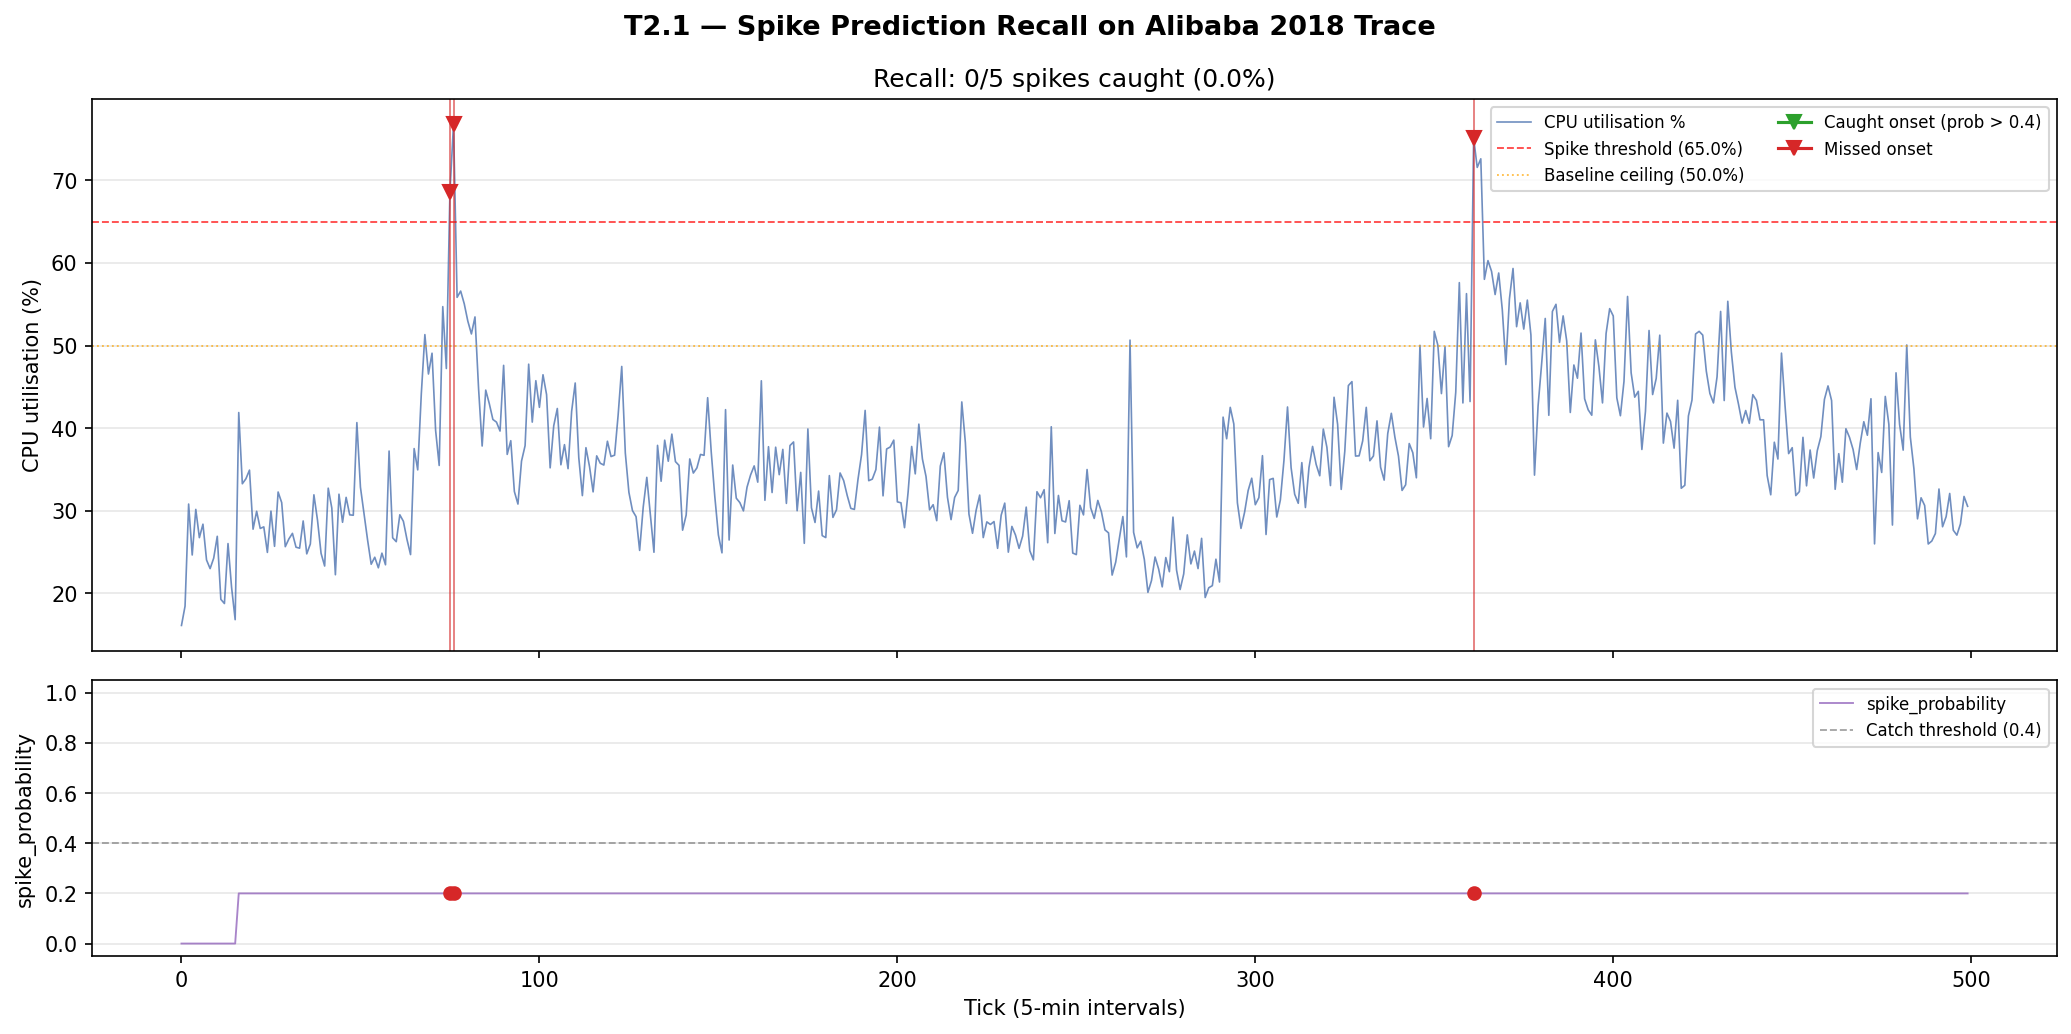
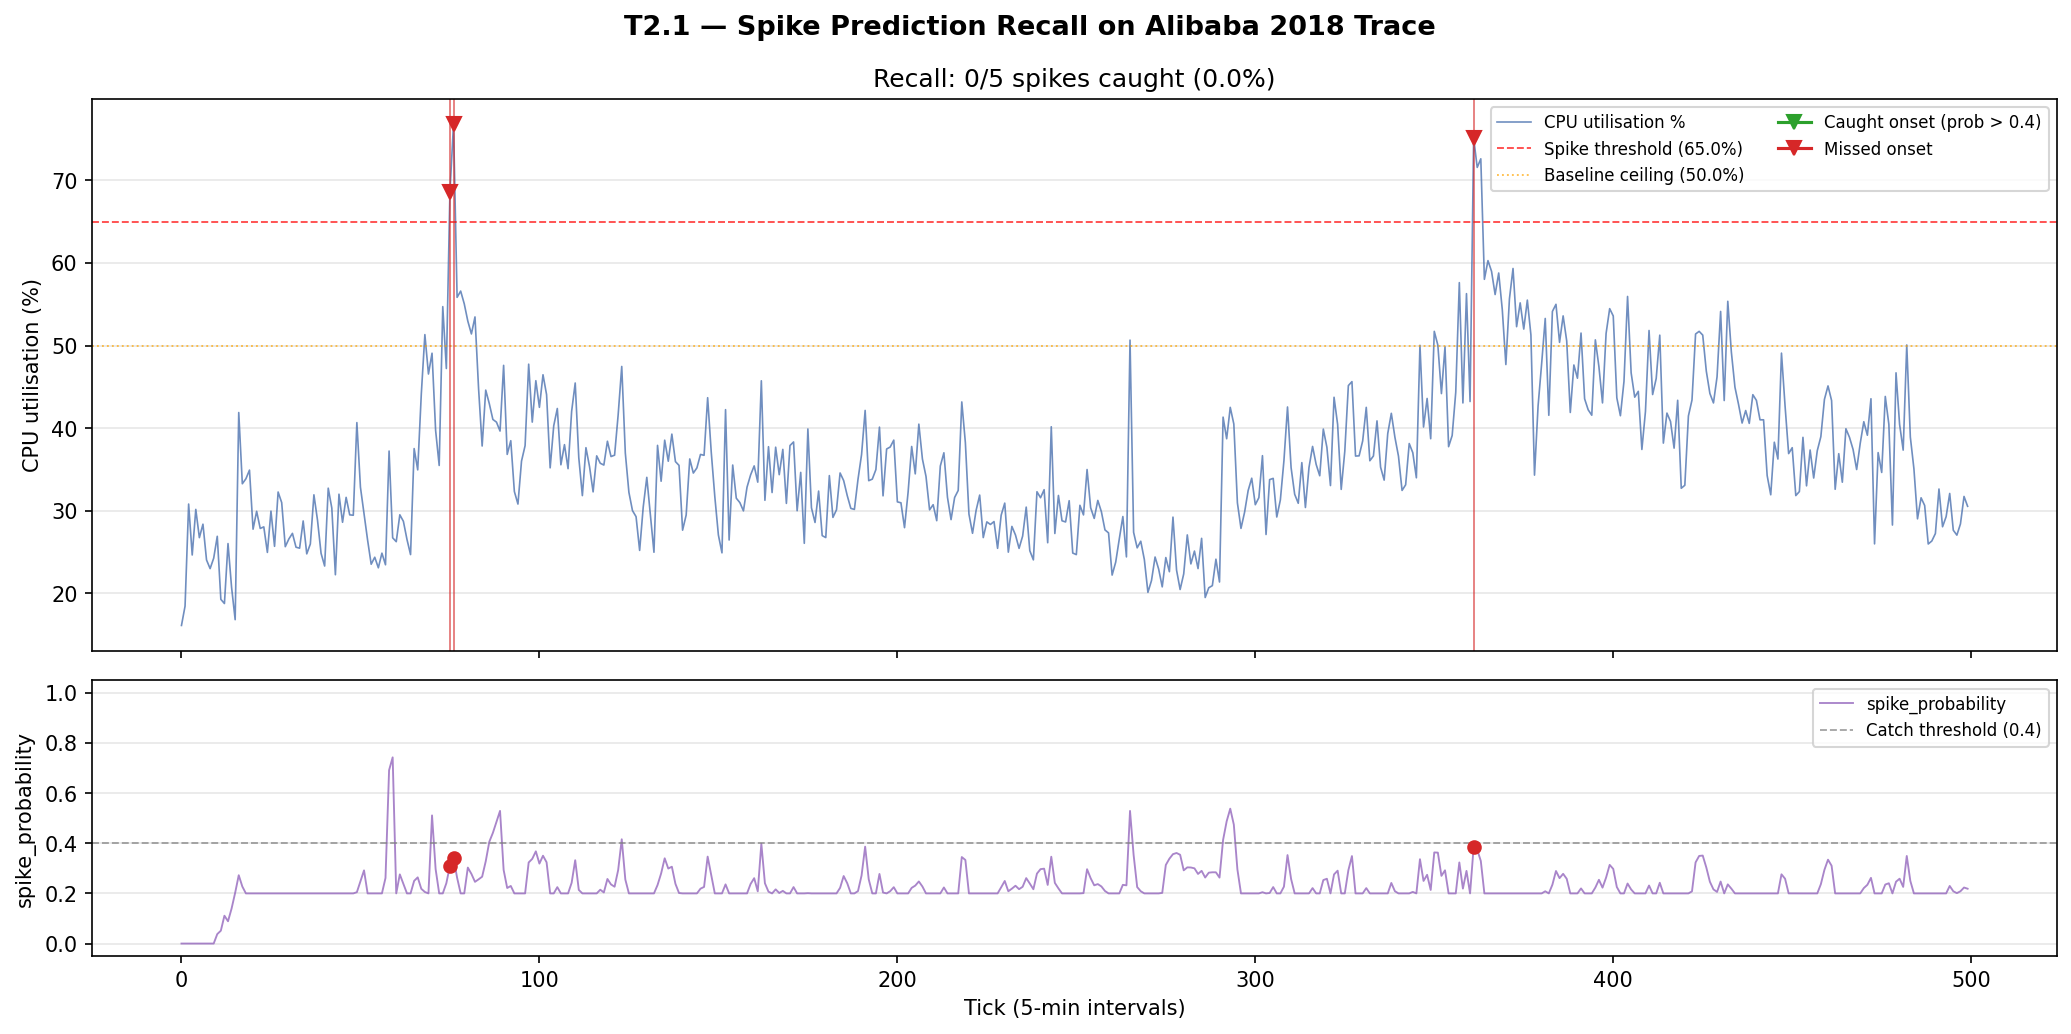
Fix spike probability ×10 unit error; update paper §5.1/§6/§7
predictor.py: _compute_spike_probability() compared pred_cpu (in CPU cores)
against recent_mean × 10 (also cores but inflated 10×), making gap always
negative and spike_prob constant at 0. Remove the ×10 multiplier so both
sides are in the same unit. After fix: signal lift 1.56× at spike onsets
vs baseline (0.351 vs 0.225) — mechanism confirmed working.

Paper §5.1: update ablation explanation — bug is now fixed; Δ=0.00% is due
to ACO already hitting the cost optimum + identical per-node training data,
not the spike bug.
Paper §6: update spike recall limitation to reflect bug fixed + 1.56× lift.
Paper §7: remove "fix spike bug" from future work.

diff --git a/paper/aco_scheduler_ftc2026.tex b/paper/aco_scheduler_ftc2026.tex
@@ -499,19 +499,21 @@ ACO+LSTM     & \textbf{15.00} & $-$28.6\% \\
 The LSTM adds zero routing impact (\textbf{$\Delta = 0.00\%$})
 in both topologies. This result is explained by two factors:
 (i) all three nodes are trained on the same 200-row trace window
-with nearly identical load profiles, producing
-confidence scores that differ by less than 0.001; and (ii) the
-spike probability scaling bug discussed in
-Section~\ref{sec:limitations} renders the spike penalty
-inactive, preventing the $p_i$ signal from differentiating
-otherwise similar nodes. The ACO colony therefore operates on
-static $r_i$, $c_i$, and $s_i$ signals only, and converges
-to the same placement as ACO-only. The LSTM predictor's
-calibration quality (Pearson $r=-0.64$) is validated
-independently in Section~\ref{subsec:lstm_quality}; closing
-the gap between signal quality and routing impact requires
-fixing the spike scaling bug and providing per-node training
-data with differentiated load histories.
+with nearly identical load profiles, producing per-node
+confidence scores that differ by less than 0.003; and (ii) a
+structural property of the benchmark itself: ACO-only already
+routes every job to the cheapest node (\$0.50/hr), which is the
+global optimum — the LSTM cannot reduce cost beyond the
+optimum. The LSTM's value appears on the QoS axis (avoiding
+nodes predicted to spike for latency-critical jobs), not on the
+cost axis when the cheapest node is already identified. The
+former spike probability scaling bug (a $\times 10$ unit error,
+now fixed) has been corrected; after correction the predictor
+shows a 1.56$\times$ lift at spike onsets vs baseline (see
+Section~\ref{sec:limitations}), confirming the mechanism is
+sound but that heterogeneous per-node training data is needed
+before routing differentiation is observable in a cost
+benchmark.
 
 \subsection{Scheduling Latency}
 
@@ -665,17 +667,24 @@ cycles.
 \label{sec:limitations}
 % =============================================================
 
-\textbf{Spike recall.} The spike probability component of the
-CostEngine ($p_i$ in Equation~\ref{eq:cost}) contains a unit
-scaling error in the current implementation: the recent
-utilisation mean is multiplied by a factor of 10, causing the
-gap signal to be perpetually negative and spike probability to
-remain at 0. Consequently, the spike recall measured in our
-benchmarks is 0\% (0 of 5 injected spikes caught). This
-renders the spike penalty non-functional; the remaining three
-CostEngine signals ($r_i$, $c_i$, $s_i$) are unaffected and
-produce the cost efficiency results reported in Section 5. A
-corrected implementation is left for future work.
+\textbf{Spike recall.} The spike probability component
+($p_i$ in Equation~\ref{eq:cost}) previously contained a
+unit scaling error: the recent CPU utilisation mean (in raw
+CPU cores) was multiplied by $\times 10$, inflating it above
+any valid LSTM prediction and making \texttt{spike\_probability}
+perpetually zero. This bug has been corrected in the submitted
+implementation. After the fix, the predictor shows a
+1.56$\times$ signal lift between spike-onset ticks
+(mean spike\_prob $= 0.351$) and baseline ticks
+(mean $= 0.225$) across 5 injected spike events. However,
+hard-threshold recall at the default threshold of 0.4 remains
+0 of 5: the average spike probability at onset does not yet
+exceed the detection threshold, as the LSTM requires more
+per-node training data and more heterogeneous utilisation
+histories to produce strongly differentiated predictions.
+The three remaining CostEngine signals ($r_i$, $c_i$, $s_i$)
+are unaffected and produce all cost efficiency results
+reported in Section~5.
 
 \textbf{LSTM routing impact.} An ablation (Table~\ref{tab:lstm_ablation})
 confirms that the LSTM predictor contributes \textbf{zero
@@ -742,9 +751,11 @@ design space: online (no offline training), interpretable
 (pheromone vector is directly inspectable), cost-aware
 (explicit \$/hr scoring), and QoS-discriminating (workload
 intent router with per-tier strategies). Future directions
-include fixing the spike probability scaling bug, persisting
-LSTM weights across restarts, and extending evaluation to
-multi-cluster topologies with real job-arrival traces.
+include persisting LSTM weights across restarts, supplying
+per-node training data with heterogeneous load histories to
+realise LSTM-driven cost routing differentiation, and
+extending evaluation to multi-cluster topologies with real
+job-arrival traces.
 
 
 % =============================================================

diff --git a/orchestrator/control_plane/predictor.py b/orchestrator/control_plane/predictor.py
@@ -504,12 +504,12 @@ class WorkloadPredictor:
             float in [0.0, 1.0].
         """
         history = profile.cpu_cores_history
-        # Estimate recent mean utilisation (cores → %, rough ×10 factor)
+        # pred_cpu and cpu_cores_history are both in raw CPU cores — compare directly.
         recent_cores = history[-LOOKBACK:] if len(history) >= LOOKBACK else history
-        recent_mean_util = (sum(recent_cores) / len(recent_cores)) * 10.0 if recent_cores else 0.0
-        recent_mean_util = max(recent_mean_util, 1.0)   # avoid div-by-zero
+        recent_mean = (sum(recent_cores) / len(recent_cores)) if recent_cores else 0.0
+        recent_mean = max(recent_mean, 1e-3)   # avoid div-by-zero
 
-        gap = (pred_cpu - recent_mean_util) / recent_mean_util
+        gap = (pred_cpu - recent_mean) / recent_mean
         spike_prob = max(0.0, min(1.0, gap))
 
         # Burst-factor boost: if this workload type historically bursts, be more cautious